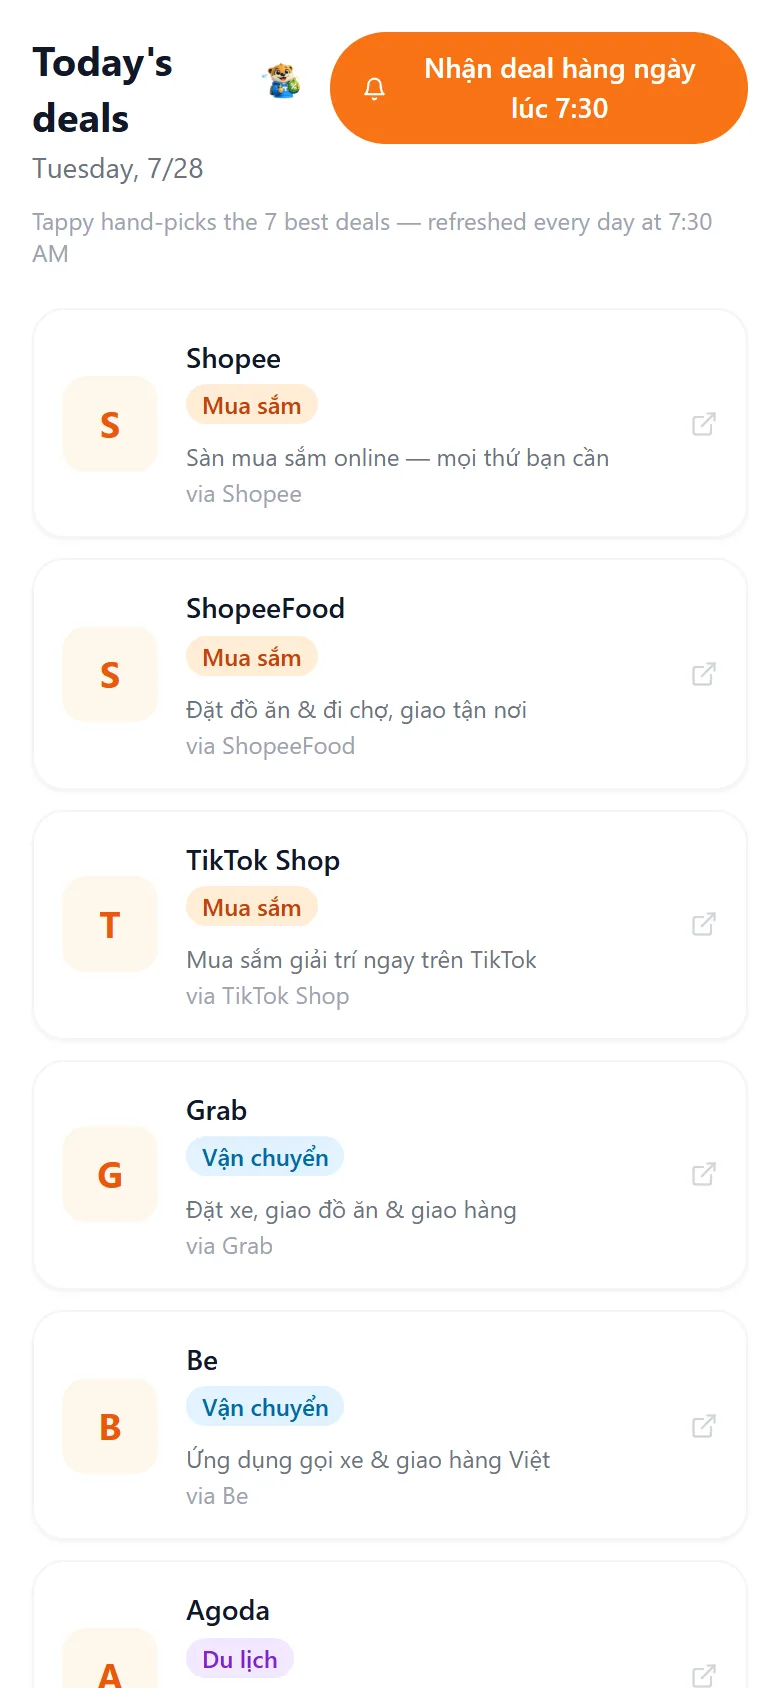
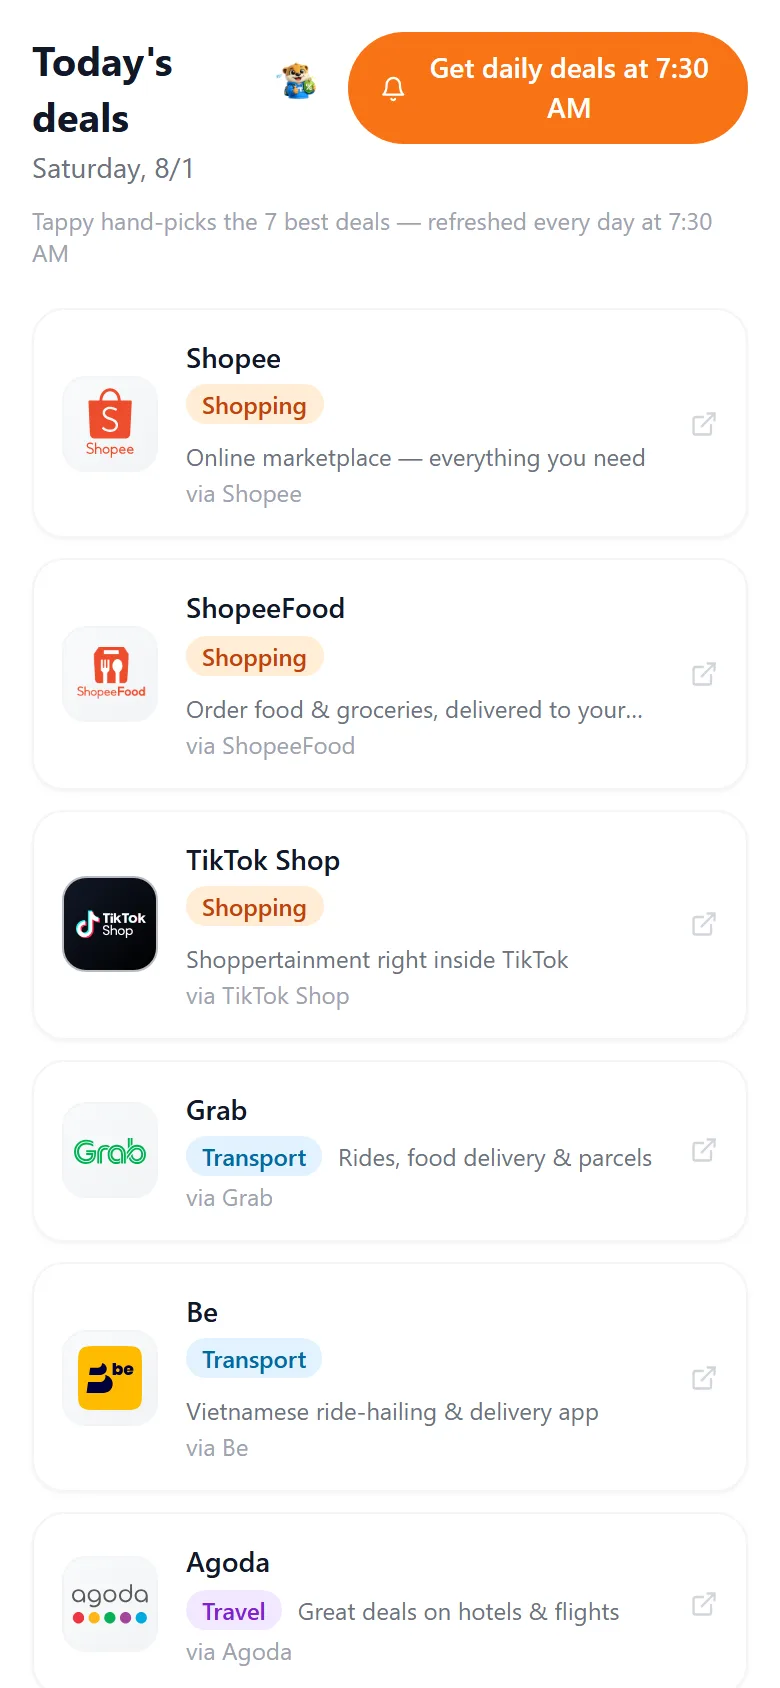
feat(landing): refresh product gallery from live Production, Music -> Travel
All Landing product screenshots re-captured from live Production at 390px CSS
/ deviceScaleFactor 2, WebP q82, at the exact dimensions the gallery declares
(780x1578 hero, 780x1688 tiles) so nothing is stretched.

Gallery order now tells the product story: ask -> plan -> community ->
commerce.

Retired the Music tile (owner decision 2026-08-01):
- not a core Landing capability,
- its screen renders Vietnamese chrome regardless of locale
  ("Dang", "Thinh hanh", "Soi dong", "Nhe nhang"),
- and it still displayed the retired founder spelling PHAM DOAN HUY,
  which contradicts the approved HUY PHAM standardisation.

Replaced by Trip planning: a real generated itinerary with day tabs, named
hotels and restaurants, prices against the stated budget, Map and Book now.

Per-asset:
- deals   : was letter avatars + mixed Vietnamese + stale 7/28 date; now all
            seven official brand logos, full English, current date.
- home    : current hero/categories/Fortune/Scan, framing restored to match
            the original (bottom nav back in frame).
- chat    : same framing, English suggestion prompts.
- reviews : advanced one post to a food clip; new "Post" tab present, current
            @huypham handle (old asset predated both).
- travel  : new.
- music   : removed.

i18n: added landing.shots.travel.label/.alt in EN + VI, removed the now-dead
landing.shots.music.* pair. No other copy touched.

QA (production build, signed out): 4 tiles, 0 broken images, every asset at
[…]

diff --git a/src/lib/i18n/landing.ts b/src/lib/i18n/landing.ts
@@ -79,8 +79,8 @@ export const en: Record<string, string> = {
   'landing.shots.chat.alt': 'TappyAI chat screen with the Tappy assistant and suggested prompts',
   'landing.shots.reviews.label': 'Reviews feed',
   'landing.shots.reviews.alt': 'TappyAI short-video review feed with like, comment, and share actions',
-  'landing.shots.music.label': 'Music library',
-  'landing.shots.music.alt': 'TappyAI music library listing reusable audio tracks with play controls',
+  'landing.shots.travel.label': 'Trip planning',
+  'landing.shots.travel.alt': 'TappyAI travel itinerary with a day-by-day plan, real hotels and restaurants, prices, maps and booking links',
   'landing.shots.deals.label': 'Daily deals',
   'landing.shots.deals.alt': 'TappyAI daily deals screen listing curated offers from popular services',
 
@@ -203,8 +203,8 @@ export const vi: Record<string, string> = {
   'landing.shots.chat.alt': 'Màn hình chat TappyAI với trợ lý Tappy và các gợi ý câu hỏi',
   'landing.shots.reviews.label': 'Bảng tin review',
   'landing.shots.reviews.alt': 'Bảng tin video review ngắn của TappyAI với thao tác thích, bình luận, chia sẻ',
-  'landing.shots.music.label': 'Thư viện nhạc',
-  'landing.shots.music.alt': 'Thư viện nhạc TappyAI liệt kê các âm thanh dùng lại được kèm nút phát',
+  'landing.shots.travel.label': 'Lên lịch trình',
+  'landing.shots.travel.alt': 'Lịch trình du lịch của TappyAI với kế hoạch theo từng ngày, khách sạn và nhà hàng có thật, giá tiền, bản đồ và link đặt chỗ',
   'landing.shots.deals.label': 'Deal mỗi ngày',
   'landing.shots.deals.alt': 'Màn hình deal mỗi ngày của TappyAI với các ưu đãi chọn lọc',
 

diff --git a/src/components/landing/config.ts b/src/components/landing/config.ts
@@ -23,9 +23,13 @@ export const FOUNDER_LINKEDIN_LABEL = 'linkedin.com/in/phạm-huy-313592253'
 // a genuine screenshot of the live Home screen (src/app/HomeView.tsx).
 export const HERO_SCREENSHOT = { src: '/landing/screen-home.webp', width: 780, height: 1578 }
 
+// Order tells the product story: ask → plan → community → commerce.
+// Music was retired from the gallery (owner decision 2026-08-01): it is not a
+// core Landing capability, its screen is Vietnamese-only regardless of locale,
+// and Trip planning demonstrates far more of what TappyAI does.
 export const GALLERY_SCREENSHOTS: Array<{ key: string; src: string; width: number; height: number }> = [
   { key: 'chat', src: '/landing/screen-chat.webp', width: 780, height: 1688 },
+  { key: 'travel', src: '/landing/screen-travel.webp', width: 780, height: 1688 },
   { key: 'reviews', src: '/landing/screen-reviews.webp', width: 780, height: 1688 },
-  { key: 'music', src: '/landing/screen-music.webp', width: 780, height: 1688 },
   { key: 'deals', src: '/landing/screen-deals.webp', width: 780, height: 1688 },
 ]
